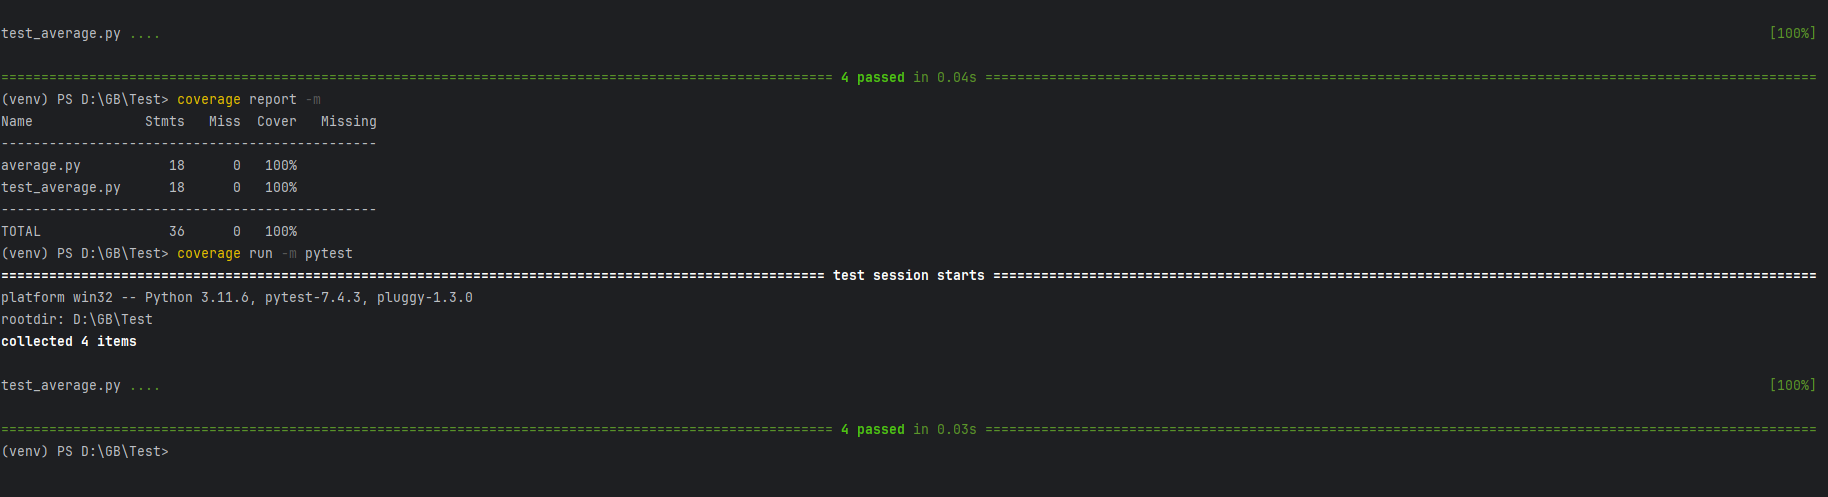
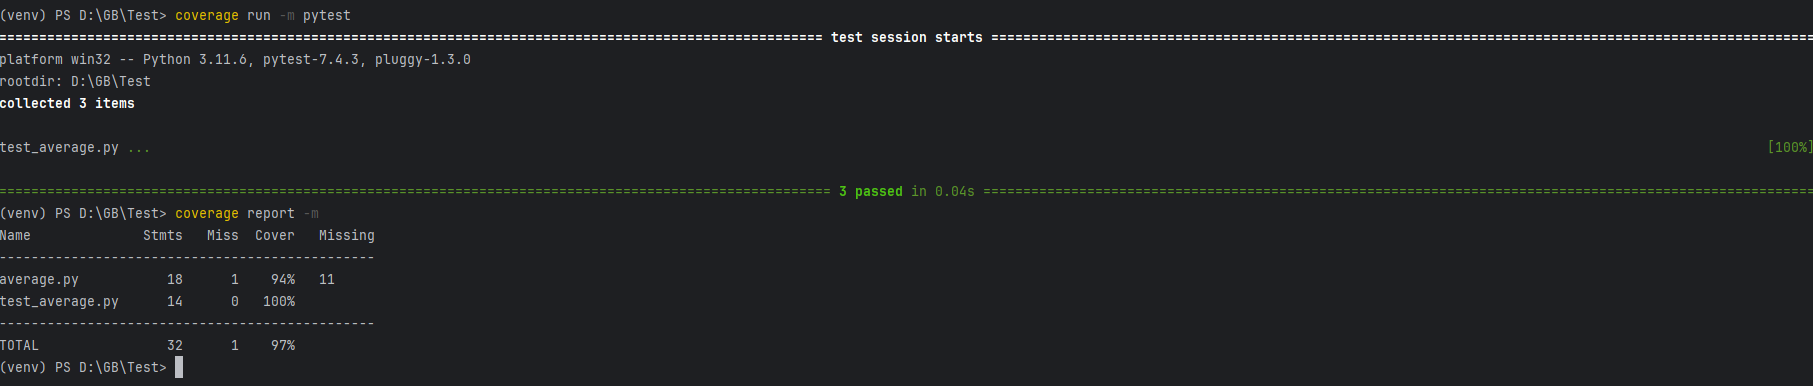
DZ6

diff --git a/DZ6/test_average.py b/DZ6/test_average.py
@@ -4,24 +4,19 @@ from average import NumsList
 
 
 def test_first_arithmetic_mean_more():
-    compare = NumsList([4, 5, 6], [1, 2, 3])
+    compare = NumsList([9, 8, 7], [1, 2, 3])
     result = compare.compare_nums_lists()
-    assert result == "Первый список имеет большее среднее значение"
+    assert result == "У первого списка среднее арифметическое больше"
 
 
 def test_second_arithmetic_mean_more():
-    compare = NumsList([1, 2, 3], [4, 5, 6])
+    compare = NumsList([1, 2, 3], [7, 8, 9])
     result = compare.compare_nums_lists()
-    assert result == "Второй список имеет большее среднее значение"
+    assert result == "У второго списка среднее арифметическое больше"
 
 
 def test_equal_averages():
-    compare = NumsList([1, 2, 3], [1, 2, 3])
+    compare = NumsList([1, 2, 3], [3, 2, 1])
     result = compare.compare_nums_lists()
-    assert result == "Средние значения равны"
+    assert result == "Средние арифметические равны"
 
-
-def test_empty_averages():
-    compare = NumsList([], [])
-    result = compare.compare_nums_lists()
-    assert result == "Средние значения равны"

diff --git a/DZ6/average.py b/DZ6/average.py
@@ -6,10 +6,10 @@ class NumsList:
         self.list2 = list2
 
     @staticmethod
-    def arithmetic_mean(input_list):
-        if len(input_list) == 0:
+    def arithmetic_mean(list):
+        if len(list) == 0:
             return 0
-        return sum(input_list) / len(input_list)
+        return sum(list) / len(list)
 
     def compare_nums_lists(self):
 
@@ -17,7 +17,7 @@ class NumsList:
         average2 = self.arithmetic_mean(self.list2)
 
         if average1 > average2:
-            return "Первый список имеет большее среднее значение"
+            return "У первого списка среднее арифметическое больше"
         if average1 < average2:
-            return "Второй список имеет большее среднее значение"
-        return "Средние значения равны"
+            return "У второго списка среднее арифметическое больше"
+        return "Средние арифметические равны"

diff --git a/DZ6/report.md b/DZ6/report.md
@@ -1,0 +1,15 @@
+Код программы - файл average.py. В классе NumsList, происходит сравнение средних арифметических значений двух списков.
+
+Код тестов - файл test_average.py. Здесь находятся тесты, которыми проверяют различные сценарии использования класса NumsList.
+Отчет о покрытии тестами
+Проверка покрытия кода тестами - использован coverage. Покрытие составило 100%.
+Объяснение покрытия тестами
+Для тестирования программы были выбраны следующие сценарии:
+test_first_arithmetic_mean_more: Тестирование, когда среднее значение первого списка больше среднего значения второго списка.
+test_second_arithmetic_mean_more: Тестирование, когда среднее значение второго списка больше среднего значения первого списка.
+test_equal_averages: Тестирование, когда средние значения двух списков равны.
+
+Все тесты успешно пройдены. 
+
+Заключение
+Работа выполнена успешно, и программа прошла тестирование с высоким покрытием кода тестами, и отчет о покрытии тестами показал 100% покрытия кода.
